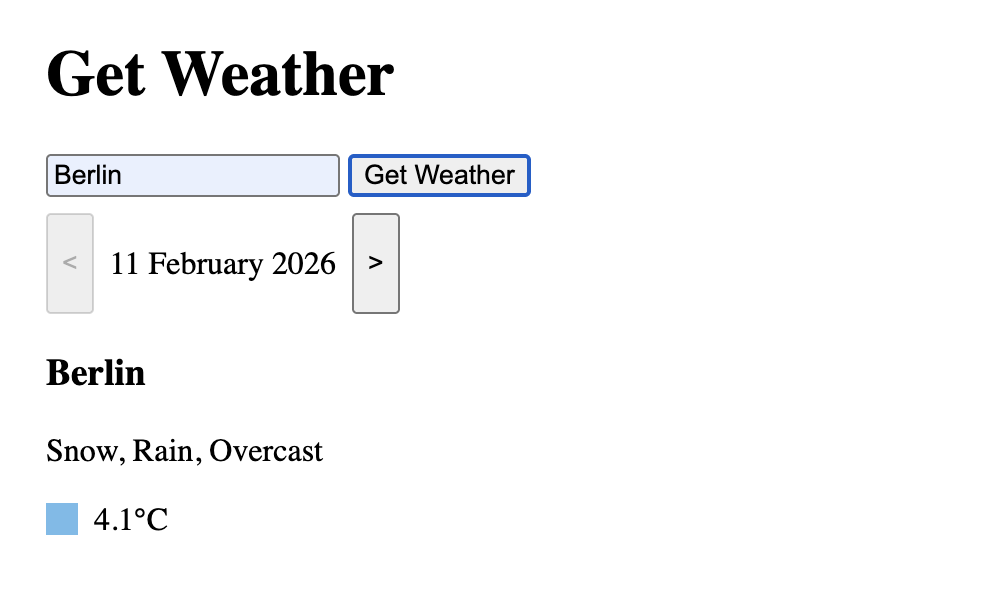
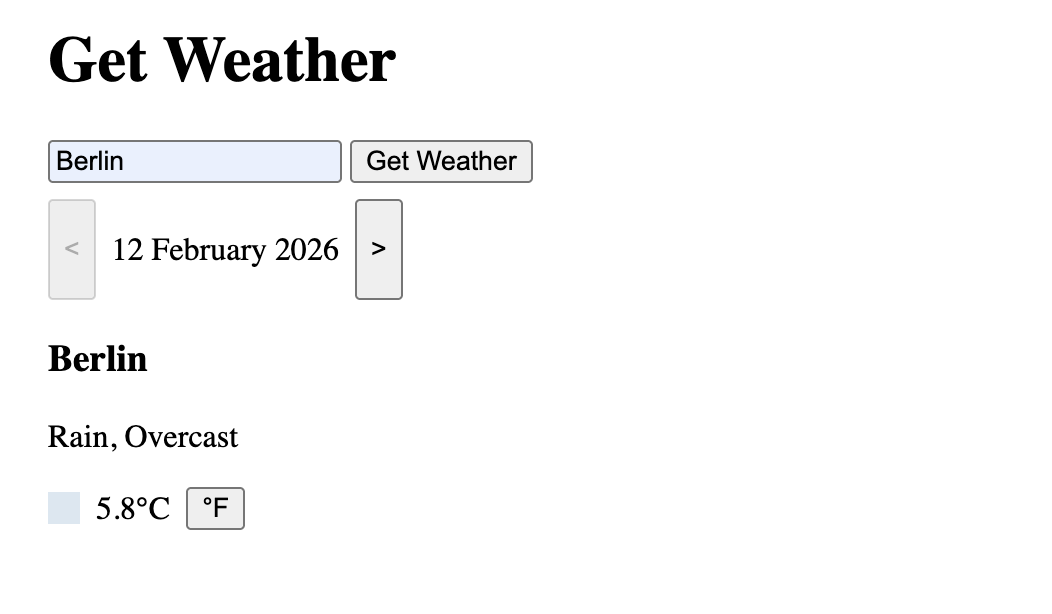
Move toggle button close to temperature

diff --git a/frontend/src/template.html b/frontend/src/template.html
@@ -12,7 +12,6 @@
             <input type="text" name="location" id="location" placeholder="Choose a location" required>
             <button type="submit">Get Weather</button>
         </form>
-        <button class="f hidden" id="toggle-unit">°F</button>
         <div class="data-container hidden">
             <div class="day-container">
                 <button id="prev"><</button>
@@ -24,6 +23,7 @@
             <div class="temperature-container">
                 <div id="temperature-color"></div>
                 <p class="temperature"></p>
+                <button class="f" id="toggle-unit">°F</button>
             </div>
         </div>
         <p class="error hidden"></p>
